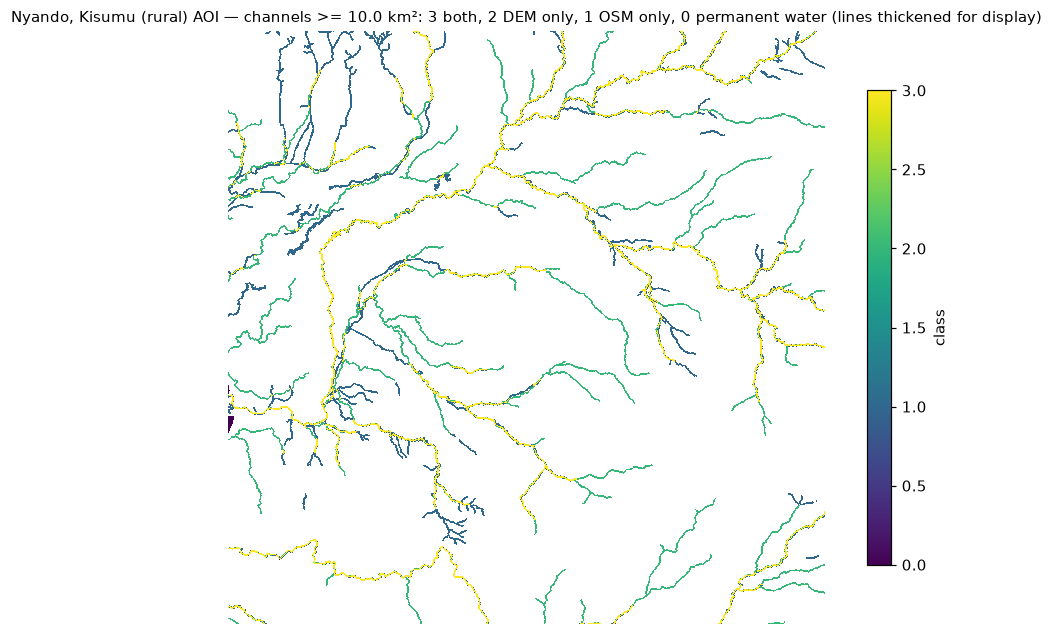
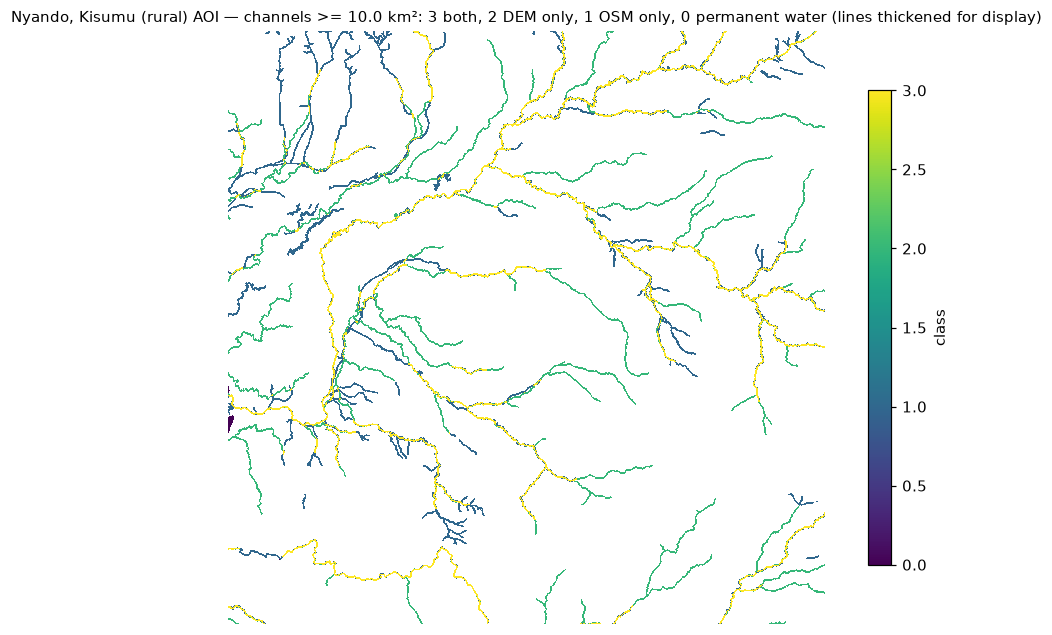
Closes F2.1 F2.2 F2.3 F2.4 F3.21: clip on native pixel edges (snap_bounds) + DEM/WorldPop re-clipped; WorldPop cache kept; DEM date_range 2011-2015 from ESA; skimage reconstruction fill + BFS flat routing (main stem reaches the mouth, 3,422 km2); M-03 rasters + figures regenerated

diff --git a/pipeline/lib/terrain.py b/pipeline/lib/terrain.py
@@ -10,6 +10,7 @@ if not hasattr(np, "in1d"):
         np.ravel(ar1), ar2, assume_unique=assume_unique, invert=invert)
 
 from affine import Affine  # noqa: E402
+from skimage.morphology import reconstruction  # noqa: E402
 from pysheds.grid import Grid  # noqa: E402
 from pysheds.sview import Raster, ViewFinder  # noqa: E402
 
@@ -22,6 +23,120 @@ def slope_deg(dem: np.ndarray, dx: float, dy: float) -> np.ndarray:
     return np.degrees(np.arctan(np.hypot(gx, gy)))
 
 
+D8 = (64, 128, 1, 2, 4, 8, 16, 32)
+_STEP = {64: (-1, 0), 128: (-1, 1), 1: (0, 1), 2: (1, 1), 4: (1, 0), 8: (1, -1), 16: (0, -1), 32: (-1, -1)}
+
+
+def _terminals(fd: np.ndarray) -> np.ndarray:
+    """Flat index of the cell where each cell's D8 path stops: an unroutable cell, or the last cell before the
+    grid edge. Pointer jumping (log2 of the longest path iterations)."""
+    h, w = fd.shape
+    idx = np.arange(h * w).reshape(h, w)
+    nxt = idx.copy()
+    for code, (dr, dc) in _STEP.items():
+        rr, cc = np.nonzero(fd == code)
+        r2, c2 = rr + dr, cc + dc
+        inside = (r2 >= 0) & (r2 < h) & (c2 >= 0) & (c2 < w)
+        nxt[rr[inside], cc[inside]] = idx[r2[inside], c2[inside]]
+    nxt = nxt.ravel()
+    while True:
+        jumped = nxt[nxt]
+        if np.array_equal(jumped, nxt):
+            return nxt.reshape(h, w)
+        nxt = jumped
+
+
+def route_leftover_flats(fdir: np.ndarray, cond: np.ndarray, outlet: np.ndarray | None = None) -> tuple[np.ndarray, int]:
+    """Breach what pysheds leaves stranded. resolve_flats can leave interior cells with no D8 direction (a filled
+    flat lifted by tiny increments around its old low point). On Nyando one sat ON the main stem near Muhoroni
+    (35.107 E, -0.126) and cut 1,592 km2 of catchment off from Ahero (found while closing F2.1).
+    Each stranded cell spills to its LOWEST neighbour whose path already reaches a real outlet (grid edge,
+    `outlet` cells such as permanent water, or the edge of the DEM's nodata), even if that neighbour is
+    marginally higher. Targets never drain through the stranded cell, so no cycle can form. Repeats until no
+    change. Returns (fdir, cells routed)."""
+    fd = fdir.copy()
+    h, w = fd.shape
+    finite = np.isfinite(cond)
+    good_end = np.zeros((h, w), bool)
+    good_end[[0, -1], :] = good_end[:, [0, -1]] = True
+    if outlet is not None:
+        good_end |= outlet
+    nod = ~finite
+    near_nod = np.zeros_like(nod)
+    for dr, dc in _STEP.values():          # 8-neighbour: water can leave diagonally into the nodata hole too
+        near_nod |= np.roll(np.roll(nod, dr, 0), dc, 1)
+    good_end |= finite & near_nod
+    from collections import deque
+    n_fixed = 0
+    while True:
+        term = _terminals(fd)
+        good = good_end.ravel()[term] & finite
+        unrouted = ~np.isin(fd, D8) & finite & ~good
+        unrouted[[0, -1], :] = unrouted[:, [0, -1]] = False
+        if not unrouted.any():
+            return fd, n_fixed
+        # Phase 1, breadth-first from every good cell into unrouted cells that are no lower than it: a flat drains
+        # cell by cell toward its outlet (nearest-to-outlet first), never uphill.
+        q = deque()
+        for r, c in np.argwhere(unrouted):
+            for dr, dc in _STEP.values():
+                if good[r + dr, c + dc] and cond[r + dr, c + dc] <= cond[r, c]:
+                    q.append((r, c))
+                    break
+        changed = 0
+        while q:
+            r, c = q.popleft()
+            if not unrouted[r, c]:
+                continue
+            best, best_z = None, None
+            for code, (dr, dc) in _STEP.items():
+                rr, cc = r + dr, c + dc
+                if good[rr, cc] and cond[rr, cc] <= cond[r, c] and (best is None or cond[rr, cc] < best_z):
+                    best, best_z = code, cond[rr, cc]
+            if best is None:
+                continue
+            fd[r, c] = best
+            good[r, c], unrouted[r, c] = True, False
+            changed += 1
+            for dr, dc in _STEP.values():
+                rr, cc = r + dr, c + dc
+                if unrouted[rr, cc] and cond[rr, cc] >= cond[r, c]:
+                    q.append((rr, cc))
+        n_fixed += changed
+        if changed:
+            continue                       # recompute terminals: cells draining into fixed ones are now good
+        # Phase 2 (stalled): a true pit spills over its lowest neighbour that reaches an outlet, even if higher.
+        for r, c in np.argwhere(unrouted):
+            best, best_z = None, None
+            for code, (dr, dc) in _STEP.items():
+                rr, cc = r + dr, c + dc
+                if good[rr, cc] and (best is None or cond[rr, cc] < best_z):
+                    best, best_z = code, cond[rr, cc]
+            if best is not None:
+                fd[r, c] = best
+                changed += 1
+        n_fixed += changed
+        if not changed:
+            return fd, n_fixed
+
+
+def fill_depressions(dem: np.ndarray, outlet: np.ndarray | None = None) -> np.ndarray:
+    """Fill every depression to its spill level by morphological reconstruction by erosion (Soille 2004, as in
+    skimage). Water may leave at the grid edge, at nodata cells and at `outlet` cells (permanent water).
+    Replaces pysheds fill_pits/fill_depressions, which on Nyando left a depression's low cell unfilled
+    (1194.6822 m under a filled flat at +0.0012 m) — a pit ON the main stem near Muhoroni."""
+    ok = np.isfinite(dem) & (dem != NODATA)
+    z = np.where(ok, dem, np.nanmin(np.where(ok, dem, np.nan)) - 1.0)
+    keep = ~ok
+    keep[[0, -1], :] = True
+    keep[:, [0, -1]] = True
+    if outlet is not None:
+        keep |= outlet
+    seed = np.where(keep, z, z.max())
+    filled = reconstruction(seed, z, method="erosion")
+    return np.where(ok, filled, np.nan)
+
+
 def hydro(dem: np.ndarray, transform: Affine, crs: str, channel_km2: float,
           extra_drainage: np.ndarray | None = None) -> dict:
     """Fill pits/depressions, resolve flats, D8 flow, accumulation (cells), channels where the upstream
@@ -30,17 +145,24 @@ def hydro(dem: np.ndarray, transform: Affine, crs: str, channel_km2: float,
     water. Without it, the lake-shore flats of the Kano plains drain into the lake, never meet a
     channel cell, and get HAND = NaN (found in M-03 on Nyando)."""
     vf = ViewFinder(affine=transform, shape=dem.shape, crs=crs, nodata=NODATA)
-    r = Raster(np.where(np.isfinite(dem), dem, NODATA).astype("float64"), viewfinder=vf)
+    filled = fill_depressions(dem.astype("float64"), extra_drainage)
+    r = Raster(np.where(np.isfinite(filled), filled, NODATA).astype("float64"), viewfinder=vf)
     g = Grid.from_raster(r)
-    cond = g.resolve_flats(g.fill_depressions(g.fill_pits(r)))
+    # No pysheds resolve_flats: on Nyando it lifted a filled flat 0.12 m ABOVE its own outlet cell and recreated the
+    # pit on the main stem. Flats are routed by route_leftover_flats() on the correctly filled surface instead.
+    cond = r
     fdir = g.flowdir(cond)
+    cond_a = np.asarray(cond, dtype="float64")
+    fd_fixed, flats_routed = route_leftover_flats(np.asarray(fdir), np.where(cond_a <= NODATA + 1, np.nan, cond_a),
+                                                  outlet=extra_drainage)
+    fdir = Raster(fd_fixed.astype(np.asarray(fdir).dtype), viewfinder=fdir.viewfinder)
     acc = g.accumulation(fdir)
     cell_km2 = abs(transform.a * transform.e) / 1e6
     channels = np.asarray(acc) * cell_km2 >= channel_km2
     # Interior cells pysheds could not route (flowdir -2 unresolved flat, -1 pit, 0 nodata) end every
     # flow path through them; treat them as terminals (water ponds there) or all upstream HAND is NaN.
     fd = np.asarray(fdir)
-    sinks = ~np.isin(fd, (64, 128, 1, 2, 4, 8, 16, 32)) & np.isfinite(dem) & (dem != NODATA)
+    sinks = ~np.isin(fd, D8) & np.isfinite(dem) & (dem != NODATA)
     drainage = channels | sinks
     if extra_drainage is not None:
         drainage |= extra_drainage
@@ -53,7 +175,7 @@ def hydro(dem: np.ndarray, transform: Affine, crs: str, channel_km2: float,
     # nodata cells by tiny increments, so an exact `== NODATA` test missed 6,694 of 8,317 cells on Nyando.
     cond_out[~np.isfinite(dem) | (dem == NODATA) | (cond_out <= NODATA + 1)] = np.nan
     return {"cond": cond_out, "fdir": np.asarray(fdir), "acc": np.asarray(acc),
-            "channels": channels, "drainage": drainage, "sinks": sinks, "hand_index": hidx, "hand": np.asarray(hand, dtype="float64"), "cell_km2": cell_km2}
+            "channels": channels, "drainage": drainage, "sinks": sinks, "flats_routed": flats_routed, "hand_index": hidx, "hand": np.asarray(hand, dtype="float64"), "cell_km2": cell_km2}
 
 
 FDIR_NODATA = -32768   # F3.6: pysheds emits -1 (pit), -2 (flat), 0 (nodata) as real codes; never use them as the tag

diff --git a/pipeline/tests/test_terrain.py b/pipeline/tests/test_terrain.py
@@ -108,7 +108,9 @@ def test_sink_rule_is_what_gives_hand_around_an_unroutable_cell(monkeypatch):
     out = terrain.hydro(dem, t, "EPSG:32736", channel_km2=100.0)
     ring = out["sinks"].copy()
     ring[[0, -1], :] = ring[:, [0, -1]] = False      # interior only (pysheds also leaves some edge cells unrouted)
-    assert ring.sum() == 8 and not ring[10, 10]
+    # cells around the hole that nothing can route (count depends on pysheds' flat handling: 4 or 8)
+    assert ring.sum() >= 4 and not ring[10, 10]
+    assert all(abs(r - 10) <= 1 and abs(c - 10) <= 1 for r, c in np.argwhere(ring))
     assert np.isfinite(out["hand"][ring]).all() and (out["hand"][ring] == 0).all()
     real_isin = np.isin
     monkeypatch.setattr(terrain.np, "isin", lambda a, b, **k: np.ones_like(np.asarray(a), bool)
@@ -149,3 +151,51 @@ def test_upstream_mean_excludes_nan_cells_from_the_count():
     m = terrain.upstream_mean(out["fdir"], t, "EPSG:32736", vals)
     np.testing.assert_allclose(m[1:-1, 10], 7.0)            # channel: mixes NaN-west and 7-east upstream areas
     assert np.isnan(m[5, 3])                                 # a west cell whose whole upstream area is NaN
+
+
+def test_route_leftover_flats_joins_an_unrouted_flat_to_its_routed_outlet():
+    """A 1x4 flat (fd -2) between higher ground and a routed lower cell must be routed cell by cell to that outlet;
+    a true pit (all neighbours higher) must stay unrouted."""
+    cond = np.full((5, 8), 10.0)
+    cond[2, 1:5] = 5.0                     # the flat
+    cond[2, 5] = 4.0                       # routed outlet, lower
+    cond[4, 6] = 1.0                       # a true pit, in a corner of higher ground
+    fd = np.full(cond.shape, 4, dtype=np.int64)    # everything else drains south (routed)
+    fd[2, 1:5] = -2
+    fd[4, 6] = -1
+    fd[2, 5] = 1                           # outlet drains east
+    out, n = terrain.route_leftover_flats(fd, cond)
+    assert n == 4
+    assert (out[2, 1:5] == 1).all()        # each flat cell points east, chaining to the outlet
+    assert out[4, 6] == -1                 # edge-row pit untouched
+
+
+def test_stranded_pit_spills_to_its_lowest_neighbour_that_reaches_an_outlet_without_cycles():
+    """An interior cell lower than all neighbours (what resolve_flats left near Muhoroni) whose neighbours drain INTO
+    it: it must be routed to the lowest neighbour that reaches the edge, never to one that drains back into it."""
+    cond = np.full((7, 7), 10.0)
+    cond[3, 3] = 4.0                        # stranded pit
+    cond[3, 4] = 5.0                        # lowest neighbour, but it drains INTO the pit (would make a cycle)
+    cond[2, 3] = 6.0                        # next lowest; drains north to the edge
+    fd = np.full(cond.shape, 64, dtype=np.int64)  # everything drains north to row 0
+    fd[3, 3] = -1
+    fd[3, 4] = 16                           # west, into the pit
+    fd[4, 3] = 64; fd[4, 4] = 32            # south side also drains into the pit
+    out, n = terrain.route_leftover_flats(fd, cond)
+    assert n == 1
+    assert out[3, 3] == 64                  # to (2,3): lowest neighbour whose path reaches the edge
+    term = terrain._terminals(out)
+    assert term[3, 3] == term[0, 3] and term[3, 4] == term[0, 3]   # pit and its inflow now reach the edge
+
+
+def test_fill_depressions_fills_to_the_spill_level_and_leaves_outlets_alone():
+    """A 2 m deep pit in a plane tilted to the west edge: filled exactly to its lowest rim cell; nothing else moves."""
+    y, x = np.mgrid[0:9, 0:9]
+    dem = (100 + 1.0 * x).astype(float)           # drains west, to column 0 (grid edge)
+    dem[4, 5] = 103.0                              # pit: rim lowest neighbour is (4,4)/(3,4)/(5,4) at 104
+    out = terrain.fill_depressions(dem)
+    assert out[4, 5] == pytest.approx(104.0)
+    mask = np.ones_like(dem, bool); mask[4, 5] = False
+    np.testing.assert_allclose(out[mask], dem[mask])
+    lake = np.zeros_like(dem, bool); lake[4, 5] = True
+    np.testing.assert_allclose(terrain.fill_depressions(dem, outlet=lake), dem)   # an outlet is never raised

diff --git a/pipeline/lib/fetch.py b/pipeline/lib/fetch.py
@@ -5,6 +5,7 @@ import datetime as dt
 import gzip
 import hashlib
 import json
+import math
 import os
 import shutil
 import time
@@ -57,12 +58,27 @@ def gunzip(src: Path, dest: Path) -> Path:
     return dest
 
 
+def snap_bounds(bbox, transform) -> tuple:
+    """Grow bbox [w,s,e,n] outward to the native pixel EDGES of a north-up grid (F2.1). GLO-30 is pixel-centre
+    registered on whole degrees (tile edge at 35.0 - 0.5 px), so 34.70 is a pixel CENTRE there; clipping at it
+    shifted the DEM half a pixel. Tolerance 1e-6 px so float noise does not add a column."""
+    a, e_, x0, y0 = transform.a, transform.e, transform.c, transform.f
+    eps = 1e-6
+    col_w = math.floor((bbox[0] - x0) / a + eps)
+    col_e = math.ceil((bbox[2] - x0) / a - eps)
+    row_n = math.floor((bbox[3] - y0) / e_ + eps)      # e_ < 0
+    row_s = math.ceil((bbox[1] - y0) / e_ - eps)
+    return (x0 + col_w * a, y0 + row_s * e_, x0 + col_e * a, y0 + row_n * e_)
+
+
 def clip(sources: list[str], bbox, dest: Path) -> Path:
-    """Mosaic + clip `sources` (local paths or /vsicurl/ URLs) to bbox [w,s,e,n] in the sources' CRS."""
+    """Mosaic + clip `sources` (local paths or /vsicurl/ URLs, same native grid) to bbox [w,s,e,n], with the bounds
+    first snapped outward to the sources' native pixel edges so no value is shifted or resampled (F2.1/F2.2)."""
     dest.parent.mkdir(parents=True, exist_ok=True)
     dss = [rasterio.open(s) for s in sources]
     try:
-        arr, transform = merge(dss, bounds=tuple(bbox))
+        bounds = snap_bounds(bbox, dss[0].transform)
+        arr, transform = merge(dss, bounds=bounds, res=(dss[0].res[0], dss[0].res[1]))
         prof = dss[0].profile.copy()
         prof.update(driver="GTiff", height=arr.shape[1], width=arr.shape[2], transform=transform,
                     count=arr.shape[0], compress="deflate", tiled=True, blockxsize=256, blockysize=256,
@@ -74,6 +90,11 @@ def clip(sources: list[str], bbox, dest: Path) -> Path:
         for d in dss:
             d.close()
     return dest
+
+
+def grid_phase_px(transform, native) -> tuple:
+    """Offset of `transform`'s origin from `native`'s origin, in native pixels (integers when on-grid)."""
+    return ((transform.c - native.c) / native.a, (transform.f - native.f) / native.e)
 
 
 def stats(path: Path, bbox) -> dict:

diff --git a/pipeline/tests/test_export.py b/pipeline/tests/test_export.py
@@ -83,3 +83,37 @@ def test_clip_mosaics_two_tiles(tmp_path):
     with rasterio.open(tmp_path / "c.tif") as ds:
         a = ds.read(1)
     assert a.shape == (10, 10) and (a[:, :5] == 1).all() and (a[:, 5:] == 2).all()
+
+
+# --- F2.1 / F2.2: a clip must lie on its source's native pixel grid --------------------------------------
+def _pc_tile(path, origin_lon, origin_lat, res, n=40):
+    """A tile like GLO-30: pixel-centre registered on whole degrees, i.e. its EDGE is half a pixel off the degree."""
+    arr = (np.arange(n * n, dtype="float32").reshape(n, n))
+    with rasterio.open(path, "w", driver="GTiff", height=n, width=n, count=1, dtype="float32", crs="EPSG:4326",
+                       transform=from_origin(origin_lon - res / 2, origin_lat + res / 2, res, res)) as ds:
+        ds.write(arr, 1)
+    return arr
+
+
+def test_clip_stays_on_the_native_grid_of_a_pixel_centre_registered_tile(tmp_path):
+    res = 0.01
+    arr = _pc_tile(tmp_path / "t.tif", 35.0, 0.0, res)
+    bbox = [35.10, -0.20, 35.20, -0.10]                 # whole-degree-ish box: lands on pixel CENTRES of this tile
+    fetch.clip([str(tmp_path / "t.tif")], bbox, tmp_path / "c.tif")
+    with rasterio.open(tmp_path / "t.tif") as src, rasterio.open(tmp_path / "c.tif") as c:
+        dx, dy = fetch.grid_phase_px(c.transform, src.transform)
+        assert dx == pytest.approx(round(dx), abs=1e-6) and dy == pytest.approx(round(dy), abs=1e-6)
+        b = c.bounds
+        assert b.left <= bbox[0] and b.bottom <= bbox[1] and b.right >= bbox[2] and b.top >= bbox[3]
+        clipped = c.read(1)
+        r0, c0 = int(round(dy)), int(round(dx))
+        np.testing.assert_array_equal(clipped, arr[r0:r0 + clipped.shape[0], c0:c0 + clipped.shape[1]])
+
+
+def test_snap_bounds_grows_outward_to_pixel_edges():
+    t = from_origin(34.9995, 0.0005, 0.001, 0.001)      # edges at x.xxx5
+    w, s, e, n = fetch.snap_bounds([35.0, -0.1, 35.1, 0.0], t)
+    assert (w, e) == (pytest.approx(34.9995), pytest.approx(35.1005))
+    assert (s, n) == (pytest.approx(-0.1005), pytest.approx(0.0005))
+    # already on edges: unchanged
+    assert fetch.snap_bounds([34.9995, -0.0995, 35.0995, 0.0005], t) == pytest.approx((34.9995, -0.0995, 35.0995, 0.0005))

diff --git a/pipeline/01_ee_export.py b/pipeline/01_ee_export.py
@@ -96,7 +96,10 @@ def run(area: str, use_ee: bool, only: set[str] | None):
     singles = [
         ("dem", "dem_glo30.tif", glo30_urls(box), "Copernicus DEM GLO-30 (DSM)", "1 arcsec (~30 m)",
          "Copernicus DEM (c) DLR e.V. 2010-2014 and (c) Airbus 2014-2018, provided under COPERNICUS by the "
-         "European Union and ESA; free licence", None),
+         "European Union and ESA; free licence",
+         # F2.4: "Data were acquired by the TanDEM-X mission between 2011 and 2015." (pre-2011 = gap fill)
+         # https://dataspace.copernicus.eu/explore-data/data-collections/copernicus-contributing-missions/collections-description/COP-DEM
+         ["2011-01-01", "2015-12-31"]),
         ("worldcover", "worldcover_2021.tif", worldcover_urls(box), "ESA WorldCover 10 m 2021 v200", "10 m",
          "(c) ESA WorldCover project 2021 / Contains modified Copernicus Sentinel data (2021); CC BY 4.0",
          ["2021-01-01", "2021-12-31"]),
@@ -118,8 +121,7 @@ def run(area: str, use_ee: bool, only: set[str] | None):
             print(f"[{key}] windowed read failed ({err}); downloading whole file(s) then clipping", flush=True)
             local = [fetch.download(u, out / "_cache" / u.rsplit("/", 1)[1]) for u in urls]
             fetch.clip([str(p) for p in local], box, dest)
-            for p in local:
-                p.unlink()
+            # kept in _cache (outside git): worldpop.org cannot resume, so a re-clip must not need a re-download
         report[key] = fetch.sidecar(dest, product=product, sources=urls, bbox=box, date_range=dr,
                                     native_scale=scale, licence=lic)
         print(json.dumps({k: report[key][k] for k in ("shape", "covers_bbox", "min", "max", "nodata_share")}),

diff --git a/pipeline/02_terrain.py b/pipeline/02_terrain.py
@@ -116,7 +116,7 @@ def main(area: str, channel_km2: float, sweep: bool):
     perm = jrc >= PERM_WATER_PCT
     h = terrain.hydro(dem, grid["transform"], grid["crs"], channel_km2, extra_drainage=perm)
     slope = terrain.slope_deg(dem, RES, RES)
-    report = {"sink_cells": int(h["sinks"].sum()), "perm_water_pct": PERM_WATER_PCT, "perm_water_cells": int(perm.sum()), "area": area, "utm_epsg": cfg["utm_epsg"], "res_m": RES, "shape": [grid["height"], grid["width"]],
+    report = {"flats_routed": h["flats_routed"], "sink_cells": int(h["sinks"].sum()), "perm_water_pct": PERM_WATER_PCT, "perm_water_cells": int(perm.sum()), "area": area, "utm_epsg": cfg["utm_epsg"], "res_m": RES, "shape": [grid["height"], grid["width"]],
               "channel_km2": channel_km2, "channel_cells": int(h["channels"].sum()),
               "hand_m": {q: float(np.nanpercentile(h["hand"], p)) for q, p in
                          (("p01", 1), ("p50", 50), ("p99", 99))},

diff --git a/docs/agents/model.md b/docs/agents/model.md
@@ -81,3 +81,15 @@ Append in the same commit as the change that taught it. Newest at the bottom.
   `cond == -9999` missed 6,694 of 8,317 cells. Mask outputs by the INPUT DEM's validity, and test with a
   multi-cell NaN hole, not a single cell. Also: pysheds' flowdir uses -1/-2/0 as real codes — never as a
   GeoTIFF nodata tag (now -32768).
+- 2026-11-06 (F2.1, R2 REJECT) GLO-30 COG tiles are pixel-CENTRE registered on whole degrees (tile edge at
+  35.0 - 0.5 px). `rasterio.merge(bounds=...)` anchors the output at the given bounds, so clipping at 34.70
+  shifted every DEM value half a pixel (~15 m W, ~15 m N) and M-03 inherited it. WorldPop (origin
+  33.909583) likewise. Clip only on the source's native pixel edges (fetch.snap_bounds) and check
+  grid_phase_px == integers; never assume a box edge is a pixel edge — read the native transform.
+- 2026-11-06 (F3.21) After the DEM moved onto its native grid the upper Nyando (1,592 km²) dead-ended at
+  one cell near Muhoroni: pysheds `fill_pits/fill_depressions` + `resolve_flats` left 265→137 unroutable
+  cells, and resolve_flats lifted a filled flat 0.12 m ABOVE its own outlet cell, recreating the pit. Fix:
+  priority-free fill by morphological reconstruction (skimage, seeds = edge/perm water), no resolve_flats,
+  then BFS routing of flats toward cells whose path terminates at an edge/outlet/nodata. Check routing by
+  WALKING the main stem to the mouth and comparing upstream area to a published basin area — a pretty
+  HAND map does not prove connectivity.
